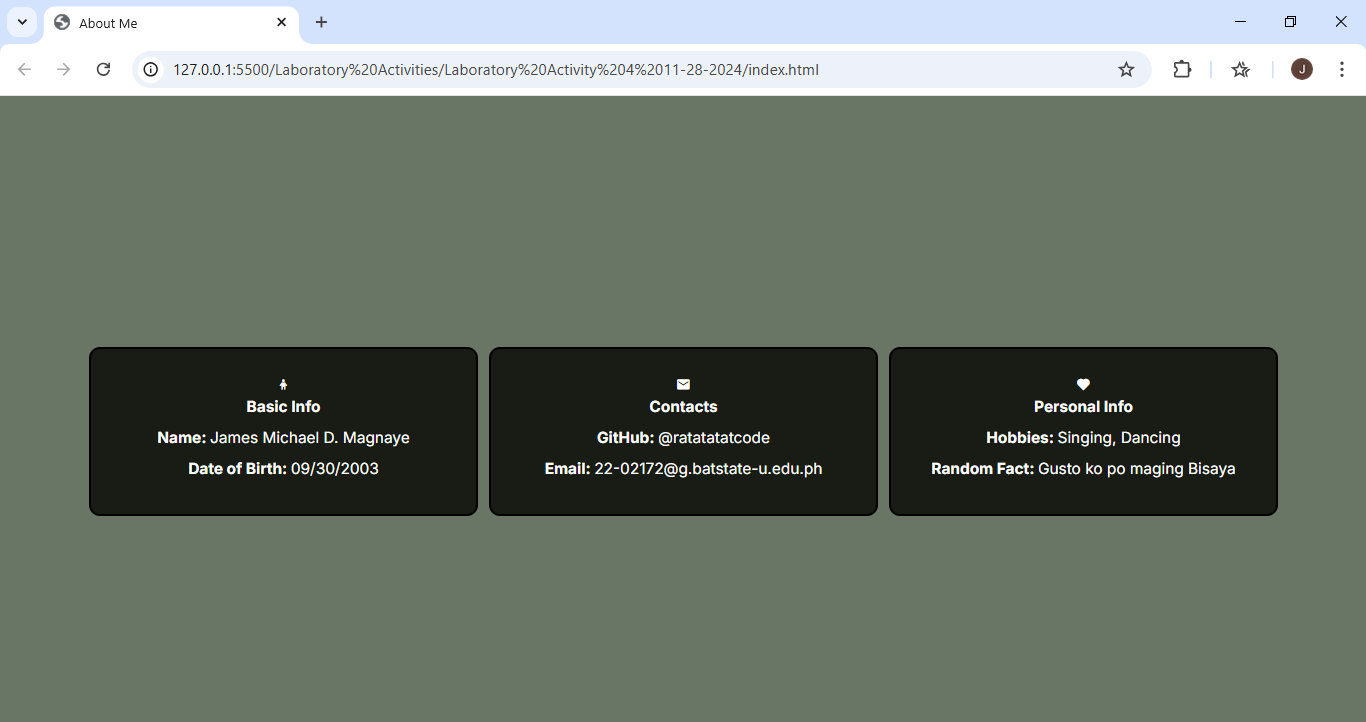
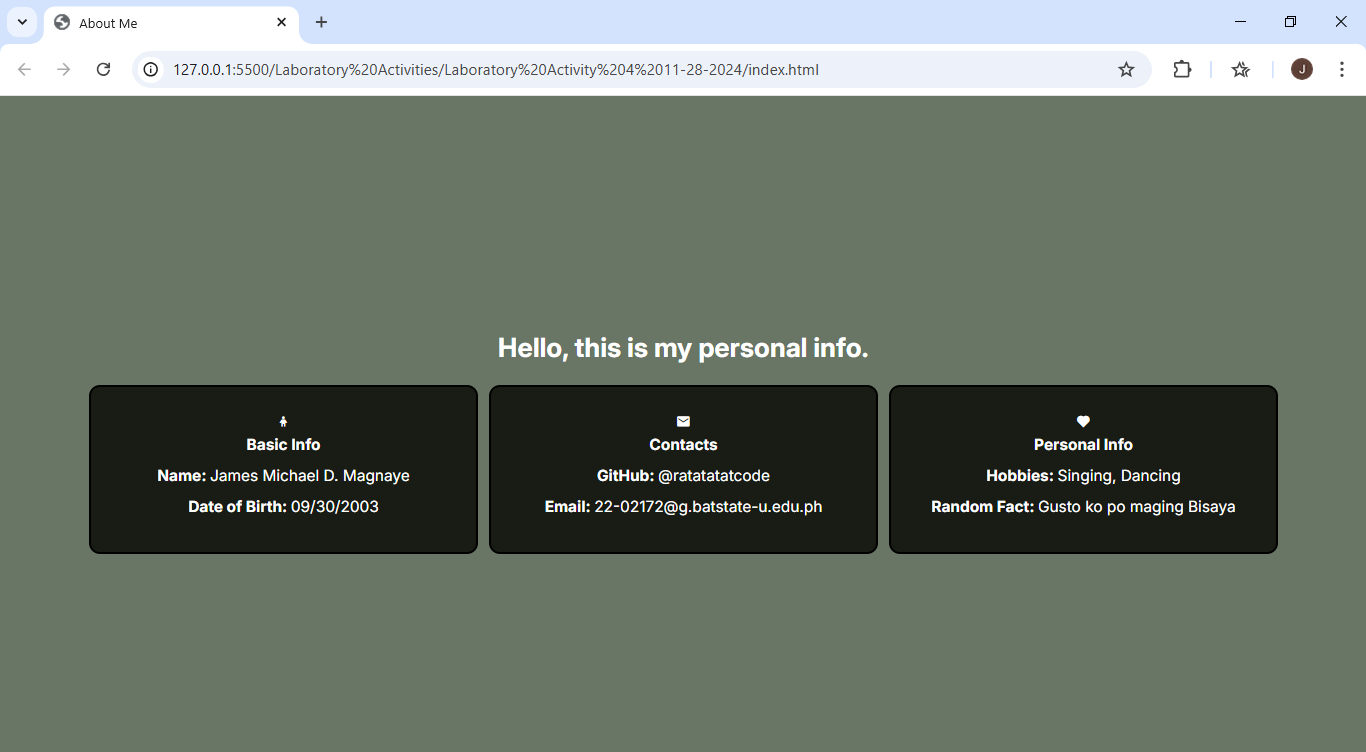
Update Laboratory Activity 4

diff --git a/Laboratory Activities/Laboratory Activity 4 11-28-2024/index.html b/Laboratory Activities/Laboratory Activity 4 11-28-2024/index.html
@@ -10,7 +10,11 @@
 </head>
 
 <body>
-    <div class="container">
+    <section>
+        <header>
+            <h1>Hello, this is my personal info.</h1></header>
+    </section>
+    <section class="container">
         <div id="flex-container" class="flex-container">
             <div class="item">
                 <i class='bx bx-child'></i>
@@ -31,7 +35,7 @@
                 <p><b>Random Fact: </b>Gusto ko po maging Bisaya</p>
             </div>
         </div>
-    </div>
+    </section>
 </body>
 
 </html>

diff --git a/Laboratory Activities/Laboratory Activity 4 11-28-2024/styles.css b/Laboratory Activities/Laboratory Activity 4 11-28-2024/styles.css
@@ -7,11 +7,17 @@ body {
     color: white;
     background-color: #697565;
     word-wrap: break-word;
+
+    /* Flex */
+    display: flex;
+    justify-content: center;
+    align-items: center;
+    flex-direction: column;
+    height: 100vh;
+    width: 100%;
 }
 
 .container {
-    height: 100vh;
-    width: 100%;
     font-size: 14px;
 
     /* Flex */
@@ -26,7 +32,6 @@ body {
 }
 
 .flex-container {
-    height: 60vh;
     width: 100%;
     margin-inline: 10px;
 
